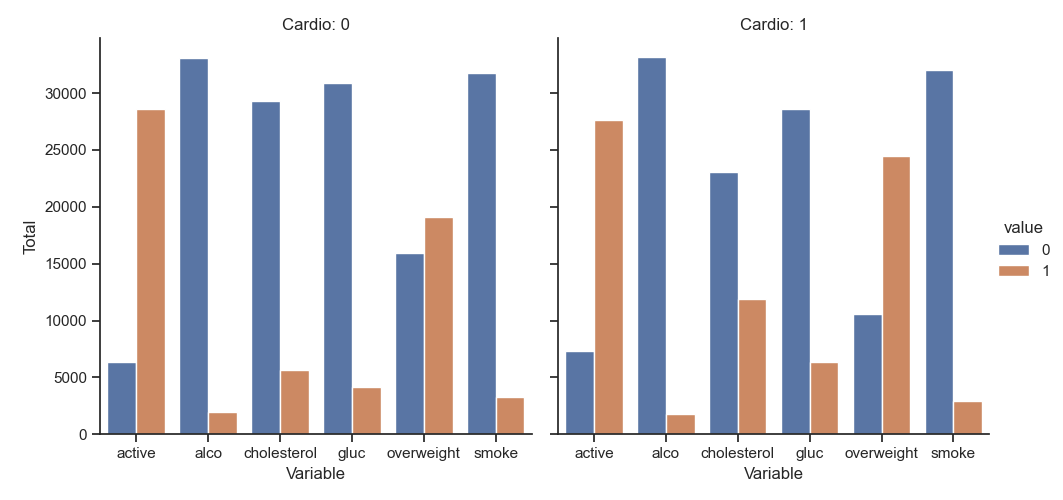
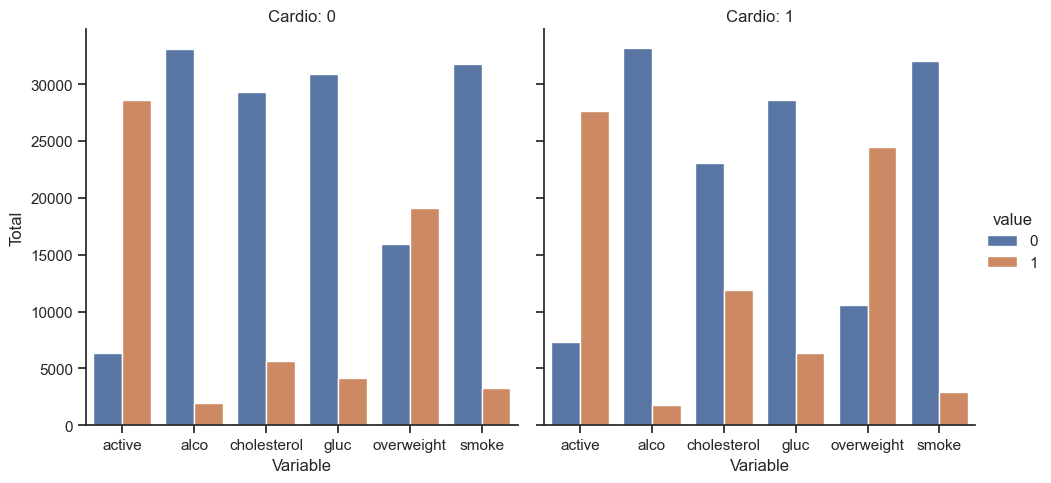
added draw_heat_map and fixed draw_cat_plot output

diff --git a/medical_data_visualizer.py b/medical_data_visualizer.py
@@ -30,37 +30,37 @@ def draw_cat_plot():
     sns.set_theme(style='ticks')
 
     # 8
-    graph = sns.catplot(x='variable', y='total', hue='value', kind='bar', col='cardio', data=df_cat)
-    graph.set_axis_labels('Variable', 'Total')
-    graph.set_titles('Cardio: {col_name}')
+    fig = sns.catplot(x='variable', y='total', hue='value', kind='bar', col='cardio', data=df_cat)
+    fig.set_axis_labels('Variable', 'Total')
+    fig.set_titles('Cardio: {col_name}')
 
 
     # 9
-    plt.savefig('catplot.png')
-    plt.show()
-    #return fig
-draw_cat_plot()
+    fig.savefig('catplot.png')
+    return fig
 
 # 10
 def draw_heat_map():
     # 11
-    df_heat = None
+    df_heat = df[(df['height'] >= df['height'].quantile(0.025)) & ((df['height'] <= df['height'].quantile(0.975))) & (df['weight'] >= df['weight'].quantile(0.025)) & ((df['weight'] <= df['weight'].quantile(0.975)))] 
+    df_heat.reset_index()
 
     # 12
-    corr = None
+    corr = df_heat.corr()
+    annot_array=np.round(corr, decimals=1)
 
     # 13
-    mask = None
-
-
+    mask = np.triu(corr)
 
     # 14
-    fig, ax = None
+    fig, ax = plt.subplots()
 
     # 15
-
-
+    sns.heatmap(corr, annot=annot_array ,fmt=".1f", mask=mask, center = 0, vmin=-0.08, vmax=0.24, cbar_kws={'shrink': 0.5, 'extend':'both', 'extendrect':'true', 'ticks': [-0.08, 0.00, 0.08, 0.16, 0.24]})
 
     # 16
     fig.savefig('heatmap.png')
     return fig
+
+draw_cat_plot()
+draw_heat_map()
